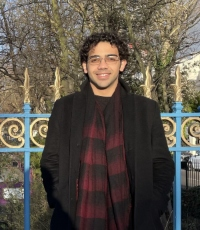
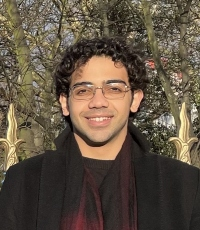
photo

diff --git a/_people/emara_omar.md b/_people/emara_omar.md
@@ -1,7 +1,7 @@
 ---
 name: Omar Emara
 position: gradstudent
-avatar: 
+avatar:omar_emara.jpg 
 twitter:
 affiliation: Dima Damen's Group
 website: https://omar-emara.github.io/
